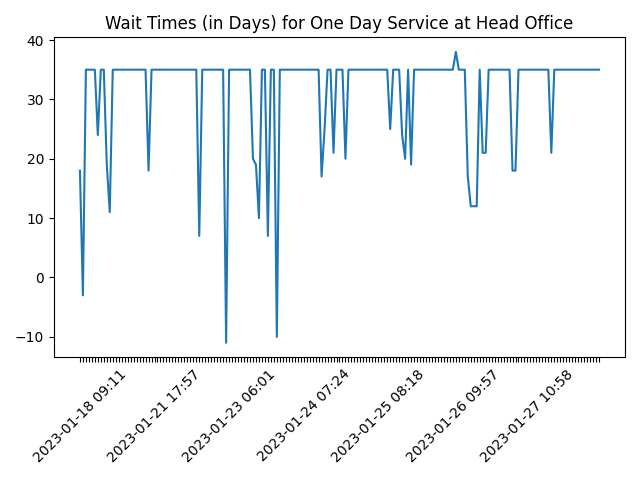
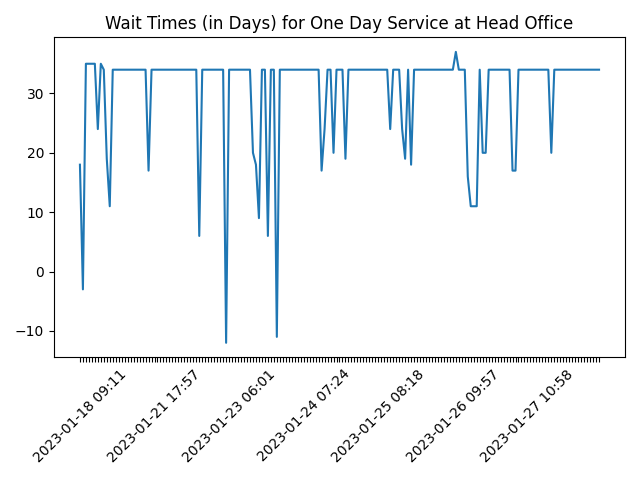
Updated data Sat Feb  4 06:27:49 UTC 2023

diff --git a/README.md b/README.md
@@ -1,5 +1,5 @@
 # Passport Application Reservation System - Availability Report
 
-*As of February 04, 2023 (06:11 AM)*
+*As of February 04, 2023 (11:57 AM)*
 
 Data Source: [Passport Application Reservation System](https://eservices.immigration.gov.lk:8443/appointment/pages/reservationApplication.xhtml)

diff --git a/summary.md b/summary.md
@@ -2,7 +2,7 @@
 
 Of the data from the Passport Application Reservation System of the Sri Lanka Department of Immigration and Emigration.
 
-*As of 2023-02-04 06:11:37*
+*As of 2023-02-04 11:57:47*
 
 ![Wait Time Chart](summary.wait_time_chart.png)
 
